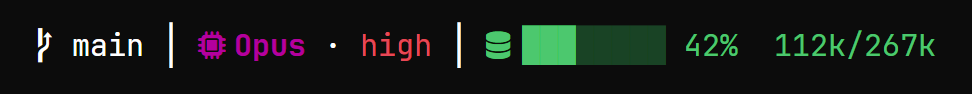
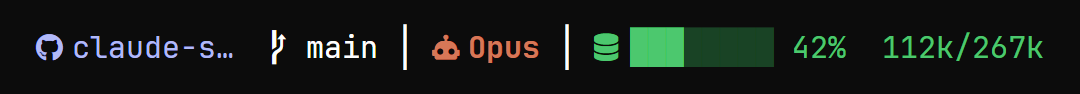
README: pictures re-shot for the colour round, the turn-end line described
The status bar pictures are rendered again from statusbar.py in Campbell colours
and the Nerd Font (robot, bolt, orange Opus, yellow PR, session time); the hint
line picture is a capture of a 104-column session. Alt texts follow the repo that
is now shortened rather than dropped.

Changed region(s): [[0.0309, 0.234, 0.9877, 0.7447], [0.3086, 0.3617, 0.3395, 0.4043], [0.0926, 0.3404, 0.1235, 0.383]]

diff --git a/README.md b/README.md
@@ -4,7 +4,7 @@ My Claude Code setup, kept in git so every PC I use looks and behaves the same. 
 Windows machine: global rules, agents, plugins, a custom status bar, a mod that tidies the conversation view, and the
 terminal's font and colours.
 
-![The status bar: repo, branch, PR, model and effort, context meter, 5-hour and 7-day plan meters, cost](docs/images/statusbar.png)
+![The status bar: repo, branch, PR, model and effort, context meter, 5-hour and 7-day plan meters, cost, session time](docs/images/statusbar.png)
 
 ## What you see
 
@@ -31,12 +31,12 @@ the plan meters. Repo, branch, model and context always stay; on a very narrow w
 letters of its name. Once the line fits, any dropped piece that still fits comes back, so
 no room is wasted:
 
-<img src="docs/images/statusbar-narrow.png" width="364" alt="The bar at 60 columns: only branch, model, effort and context remain">
+<img src="docs/images/statusbar-narrow.png" width="380" alt="The bar at 60 columns: the repo cut to claude-s…, then branch, model and context">
 
 Dropped pieces aren't lost. The session-cards mod (below) moves them onto Claude Code's hint line, beside the
 permissions text, so a piece only disappears once both lines are full:
 
-![At 104 columns the bar keeps branch, model, context and plan meters; the repo, the 5-hour reset and the cost move onto the hint line](docs/images/hint-overflow.png)
+![At 104 columns the bar keeps repo, branch, model, effort, context and the 5-hour meter; the 5-hour reset, the 7-day meter and the cost move onto the hint line](docs/images/hint-overflow.png)
 
 The icons come from a Nerd Font. On a machine without one, the installer switches the bar to short words instead
 (`ctx`, `5H`, `7D`), so it reads fine in any monospace font. To see the bar without starting Claude Code, run
@@ -48,6 +48,8 @@ The icons come from a Nerd Font. On a machine without one, the installer switche
 
 - **Your prompts** become a coloured card headed with the time you sent them, so you can find your own messages again.
 - **Slash-command output** gets a violet card of its own.
+- **The end of each turn** is a coloured line with how long it took and when it finished (`✻ Baked for 1s · done 4:20 PM`).
+  While a background shell or agent still runs, Claude Code's own line stays, since only it knows when they end.
 - **Tool calls** shrink to one short row each: an icon and a few words. Runs of reads, searches and shell commands
   keep Claude Code's own one-line summary ("Searched for 1 pattern, read 1 file…"), as in the picture below.
 - **Agents** get a row showing the agent type, its model and effort (in the same colours as the status bar), what it's
